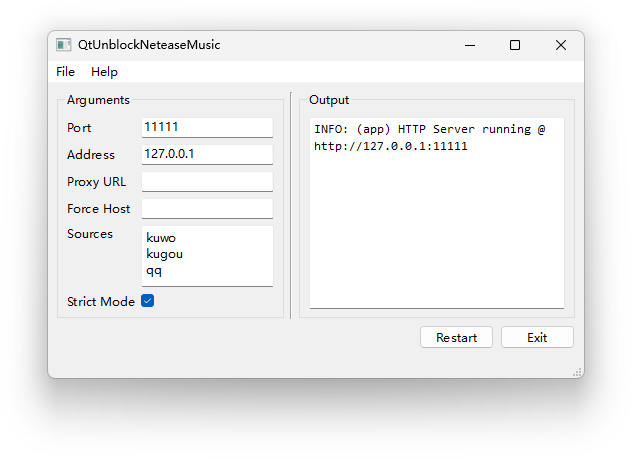
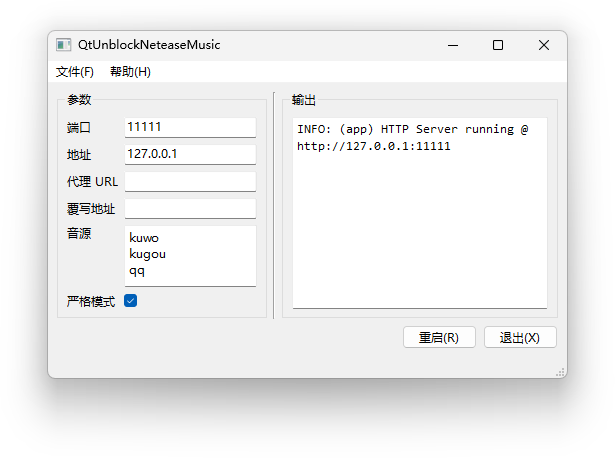
New feature: translations

diff --git a/locale/qt_zh_CN.ts b/locale/qt_zh_CN.ts
@@ -1,0 +1,143 @@
+<?xml version="1.0" encoding="utf-8"?>
+<!DOCTYPE TS>
+<TS version="2.1" language="zh_CN">
+<context>
+    <name>MainWindow</name>
+    <message>
+        <location filename="../mainwindow.ui" line="22"/>
+        <source>&amp;Restart</source>
+        <translation>重启(&amp;R)</translation>
+    </message>
+    <message>
+        <location filename="../mainwindow.ui" line="29"/>
+        <location filename="../mainwindow.ui" line="251"/>
+        <source>E&amp;xit</source>
+        <translation>退出(&amp;X)</translation>
+    </message>
+    <message>
+        <location filename="../mainwindow.ui" line="40"/>
+        <source>Arguments</source>
+        <translation>参数</translation>
+    </message>
+    <message>
+        <location filename="../mainwindow.ui" line="52"/>
+        <location filename="../mainwindow.ui" line="155"/>
+        <source>Set priority of sources</source>
+        <translation>设置音源的优先级</translation>
+    </message>
+    <message>
+        <location filename="../mainwindow.ui" line="66"/>
+        <location filename="../mainwindow.ui" line="92"/>
+        <source>Force the Netease server IP</source>
+        <translation>覆写网易服务器的 IP 地址</translation>
+    </message>
+    <message>
+        <location filename="../mainwindow.ui" line="69"/>
+        <source>Force Host</source>
+        <translation>覆写地址</translation>
+    </message>
+    <message>
+        <location filename="../mainwindow.ui" line="76"/>
+        <location filename="../mainwindow.ui" line="99"/>
+        <source>Enable proxy limitation</source>
+        <translation>启用代理限制</translation>
+    </message>
+    <message>
+        <location filename="../mainwindow.ui" line="102"/>
+        <source>Strict Mode</source>
+        <translation>严格模式</translation>
+    </message>
+    <message>
+        <location filename="../mainwindow.ui" line="109"/>
+        <location filename="../mainwindow.ui" line="145"/>
+        <source>Specify server host</source>
+        <translation>指定主机地址</translation>
+    </message>
+    <message>
+        <location filename="../mainwindow.ui" line="112"/>
+        <source>Address</source>
+        <translation>地址</translation>
+    </message>
+    <message>
+        <location filename="../mainwindow.ui" line="119"/>
+        <location filename="../mainwindow.ui" line="187"/>
+        <source>Request through upstream proxy</source>
+        <translation>使用代理发送请求</translation>
+    </message>
+    <message>
+        <location filename="../mainwindow.ui" line="122"/>
+        <source>Proxy URL</source>
+        <translation>代理 URL</translation>
+    </message>
+    <message>
+        <location filename="../mainwindow.ui" line="129"/>
+        <location filename="../mainwindow.ui" line="171"/>
+        <source>Specify server port</source>
+        <translation>指定服务器端口</translation>
+    </message>
+    <message>
+        <location filename="../mainwindow.ui" line="132"/>
+        <source>Port</source>
+        <translation>端口</translation>
+    </message>
+    <message>
+        <location filename="../mainwindow.ui" line="158"/>
+        <source>Sources</source>
+        <translation>音源</translation>
+    </message>
+    <message>
+        <location filename="../mainwindow.ui" line="204"/>
+        <source>Output</source>
+        <translation>输出</translation>
+    </message>
+    <message>
+        <location filename="../mainwindow.ui" line="235"/>
+        <source>&amp;File</source>
+        <translation>文件(&amp;F)</translation>
+    </message>
+    <message>
+        <location filename="../mainwindow.ui" line="241"/>
+        <source>&amp;Help</source>
+        <translation>帮助(&amp;H)</translation>
+    </message>
+    <message>
+        <location filename="../mainwindow.ui" line="256"/>
+        <source>&amp;About</source>
+        <translation>关于(&amp;A)</translation>
+    </message>
+    <message>
+        <location filename="../mainwindow.cpp" line="38"/>
+        <source>QtUnblockNeteaseMusic
+Version %1
+
+A desktop client for UnblockNeteaseMusic,
+written in Qt.
+
+Copyright 2022 FrzMtrsprt</source>
+        <translation>QtUnblockNeteaseMusic
+版本 %1
+
+适用于 UnblockNeteaseMusic 的桌面应用，
+使用 Qt 编写。
+
+版权所有 2022 FrzMtrsprt</translation>
+    </message>
+    <message>
+        <location filename="../mainwindow.cpp" line="63"/>
+        <source>Server error</source>
+        <translation>服务器错误</translation>
+    </message>
+    <message>
+        <location filename="../mainwindow.cpp" line="64"/>
+        <source>The UnblockNeteaseMusic server ran into an error.
+Please change the arguments or check port usage and try again.</source>
+        <translation>UnblockNeteaseMusic 服务器出现错误。
+请修改服务器参数或检查端口占用，然后重试。</translation>
+    </message>
+    <message>
+        <location filename="../mainwindow.cpp" line="185"/>
+        <source>Server not found.</source>
+        <translation>未找到服务器。</translation>
+    </message>
+</context>
+</TS>

diff --git a/locale/qt_en.ts b/locale/qt_en.ts
@@ -1,0 +1,4 @@
+<?xml version="1.0" encoding="utf-8"?>
+<!DOCTYPE TS>
+<TS version="2.1" language="en">
+</TS>

diff --git a/mainwindow.cpp b/mainwindow.cpp
@@ -35,18 +35,20 @@ void MainWindow::on_actionExit_triggered()
 void MainWindow::on_actionAbout_triggered()
 {
     QMessageBox aboutDlg(this);
-    QString text = QString("QtUnblockNeteaseMusic\n"
-                           "Version %1\n\n"
-                           "A desktop client for UnblockNeteaseMusic,\n"
-                           "written in Qt.\n\n"
-                           "Copyright 2022 FrzMtrsprt")
+    QString text = QString(tr("QtUnblockNeteaseMusic\n"
+                              "Version %1\n\n"
+                              "A desktop client for UnblockNeteaseMusic,\n"
+                              "written in Qt.\n\n"
+                              "Copyright 2022 FrzMtrsprt"))
                        .arg(versionStr);
     aboutDlg.setWindowTitle("About");
     aboutDlg.setIconPixmap(QPixmap("./res/icon.png").scaledToHeight(100, Qt::SmoothTransformation));
     aboutDlg.setText(text);
-    aboutDlg.setStandardButtons(QMessageBox::Ok | QMessageBox::Help);
+    QPushButton *webBtn = aboutDlg.addButton("GitHub", QMessageBox::HelpRole);
+    aboutDlg.setStandardButtons(QMessageBox::Ok);
     aboutDlg.setModal(true);
-    if (aboutDlg.exec() == QMessageBox::Help)
+    aboutDlg.exec();
+    if (aboutDlg.clickedButton() == (QAbstractButton *)webBtn)
     {
         QDesktopServices::openUrl(repoUrl);
     }
@@ -60,10 +62,11 @@ void MainWindow::on_readoutput()
 void MainWindow::on_readerror()
 {
     QMessageBox errorDlg;
-    errorDlg.setWindowTitle("Server error");
-    errorDlg.setText("The UnblockNeteaseMusic server ran into an error.\n"
-                     "Please change the arguments and try again.");
+    errorDlg.setWindowTitle(tr("Server error"));
+    errorDlg.setText(tr("The UnblockNeteaseMusic server ran into an error.\n"
+                        "Please change the arguments or check port usage and try again."));
     errorDlg.setDetailedText(server->readAllStandardError().data());
+    errorDlg.setIcon(QMessageBox::Warning);
     errorDlg.setStandardButtons(QMessageBox::Ok);
     errorDlg.exec();
 }
@@ -182,7 +185,7 @@ void MainWindow::startServer()
     }
     else
     {
-        outLog("Server not found.");
+        outLog(tr("Server not found."));
     }
 }
 

diff --git a/main.cpp b/main.cpp
@@ -1,12 +1,28 @@
 #include "mainwindow.h"
 
 #include <QApplication>
+#include <QTranslator>
 
 int main(int argc, char *argv[])
 {
     QApplication a(argc, argv);
     QCoreApplication::setOrganizationName("FrzMtrsprt");
     QCoreApplication::setApplicationName("QtUnblockNeteaseMusic");
+
+    //Load app translations
+    QTranslator appTranslator;
+    if (appTranslator.load(QLocale::system(), "qt", "_", "locale", ".qm"))
+    {
+        a.installTranslator(&appTranslator);
+    }
+
+    //Load Qt base translations
+    QTranslator baseTranslator;
+    if (baseTranslator.load(QLocale::system(), "qtbase", "_", "locale", ".qm"))
+    {
+        a.installTranslator(&baseTranslator);
+    }
+    
     MainWindow w;
     w.show();
     return a.exec();
